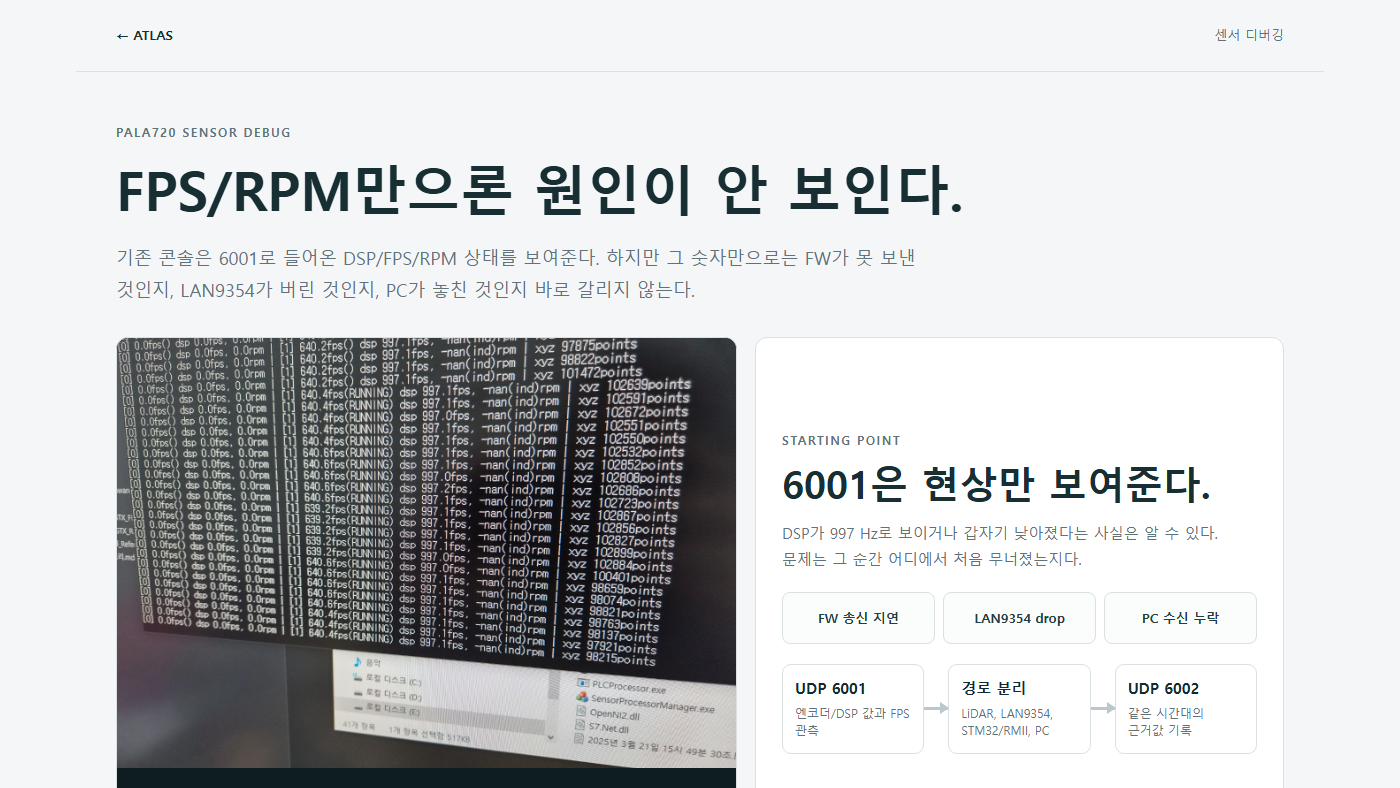
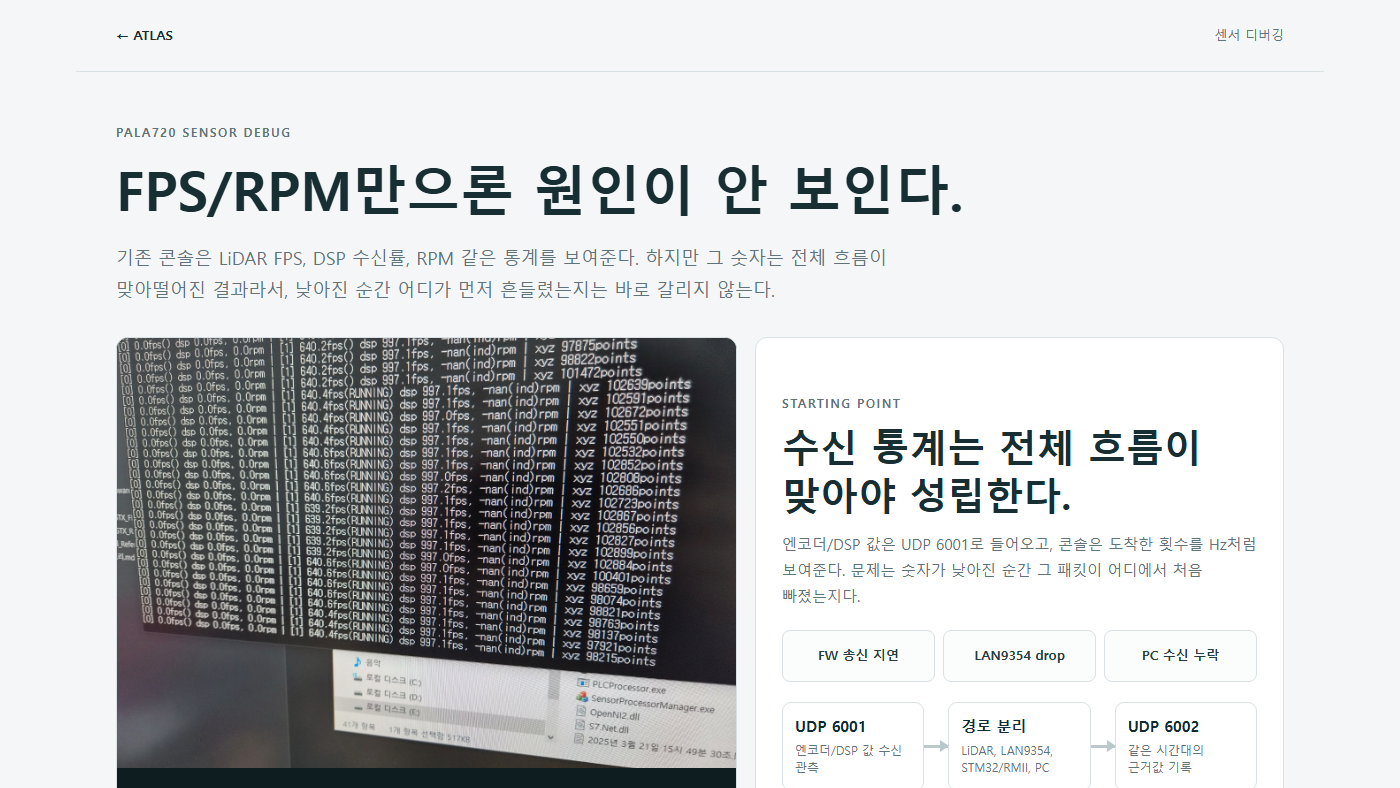
Clarify diagnostic statistics wording

diff --git a/reports/fw-lan9354-diag/index.html b/reports/fw-lan9354-diag/index.html
@@ -7,7 +7,7 @@
   <title>PALA720 센서 디버깅 | ATLAS</title>
   <link rel="icon" href="../../assets/favicon.svg" type="image/svg+xml">
   <link rel="stylesheet" href="../../assets/theme.v1.css">
-  <link rel="stylesheet" href="report.css?v=20260910-11">
+  <link rel="stylesheet" href="report.css?v=20260910-12">
 </head>
 <body>
   <a class="skip" href="#purpose">본문으로 건너뛰기</a>
@@ -20,7 +20,7 @@
     <section id="purpose" class="hero">
       <div class="eyebrow">PALA720 sensor debug</div>
       <h1>FPS/RPM만으론 원인이 안 보인다.</h1>
-      <p class="intro">기존 콘솔은 6001로 들어온 DSP/FPS/RPM 상태를 보여준다. 하지만 그 숫자만으로는 FW가 못 보낸 것인지, LAN9354가 버린 것인지, PC가 놓친 것인지 바로 갈리지 않는다.</p>
+      <p class="intro">기존 콘솔은 LiDAR FPS, DSP 수신률, RPM 같은 통계를 보여준다. 하지만 그 숫자는 전체 흐름이 맞아떨어진 결과라서, 낮아진 순간 어디가 먼저 흔들렸는지는 바로 갈리지 않는다.</p>
 
       <div class="symptom-layout" aria-label="기존 콘솔 로그와 진단 흐름">
         <figure class="console-shot">
@@ -30,15 +30,15 @@
 
         <div class="symptom-copy">
           <span class="eyebrow">Starting point</span>
-          <h2>6001은 현상만 보여준다.</h2>
-          <p>DSP가 997 Hz로 보이거나 갑자기 낮아졌다는 사실은 알 수 있다. 문제는 그 순간 어디에서 처음 무너졌는지다.</p>
+          <h2>수신 통계는 전체 흐름이 맞아야 성립한다.</h2>
+          <p>엔코더/DSP 값은 UDP 6001로 들어오고, 콘솔은 도착한 횟수를 Hz처럼 보여준다. 문제는 숫자가 낮아진 순간 그 패킷이 어디에서 처음 빠졌는지다.</p>
           <div class="ambiguity-list" aria-label="FPS 로그만으로 겹쳐 보이는 원인">
             <span>FW 송신 지연</span>
             <span>LAN9354 drop</span>
             <span>PC 수신 누락</span>
           </div>
           <div class="diag-story" aria-label="6001 관측에서 6002 진단으로 확장되는 흐름">
-            <div><b>UDP 6001</b><span>엔코더/DSP 값과 FPS 관측</span></div>
+            <div><b>UDP 6001</b><span>엔코더/DSP 값 수신 관측</span></div>
             <i></i>
             <div><b>경로 분리</b><span>LiDAR, LAN9354, STM32/RMII, PC</span></div>
             <i></i>
@@ -214,20 +214,20 @@
           <span class="eyebrow">What changed</span>
           <h2 id="change-title">기존엔 현상만, 지금은 경로까지 본다.</h2>
         </div>
-        <p>UDP 번호는 구현 세부입니다. 핵심은 단일 FPS 관측에서 경로별 증거 기록으로 바뀐 점입니다.</p>
+        <p>UDP 번호는 구현 세부입니다. 핵심은 수신 통계 숫자에서 경로별 증거 기록으로 바뀐 점입니다.</p>
       </div>
       <div class="debug-evolution" aria-label="기존 관측과 FW diag 이후 비교">
         <article class="debug-card before">
           <span class="eyebrow">기존 관측</span>
-          <h3>엔코더/DSP 값이 몇 Hz로 왔는지만 보였다.</h3>
+          <h3>LiDAR·엔코더·DSP가 초당 몇 번 왔는지만 보였다.</h3>
           <div class="mini-flow" aria-label="기존 6001 관측 경로">
-            <span>엔코더 / DSP</span>
+            <span>LiDAR FPS</span>
             <i></i>
-            <span>UDP 6001</span>
+            <span>UDP 6001<br>엔코더 / DSP</span>
             <i></i>
-            <span>PC FPS</span>
+            <span>PC 수신 통계</span>
           </div>
-          <p>수신률이 낮아진 사실은 보이지만, FW 송신·스위치 drop·PC 수신 중 어디가 원인인지는 분리되지 않았습니다.</p>
+          <p>LiDAR FPS나 엔코더/RPM, DSP Hz가 낮아진 사실은 보이지만, FW 송신·스위치 drop·PC 수신 중 어디가 원인인지는 분리되지 않았습니다.</p>
         </article>
         <article class="debug-card after">
           <span class="eyebrow">FW diag 이후</span>
@@ -302,6 +302,6 @@
     <span>PALA720 · 센서 디버깅</span>
     <span>2026.09.10 · LDG4.2 6002 진단 방향</span>
   </footer>
-  <script src="report.js?v=20260910-11"></script>
+  <script src="report.js?v=20260910-12"></script>
 </body>
 </html>
